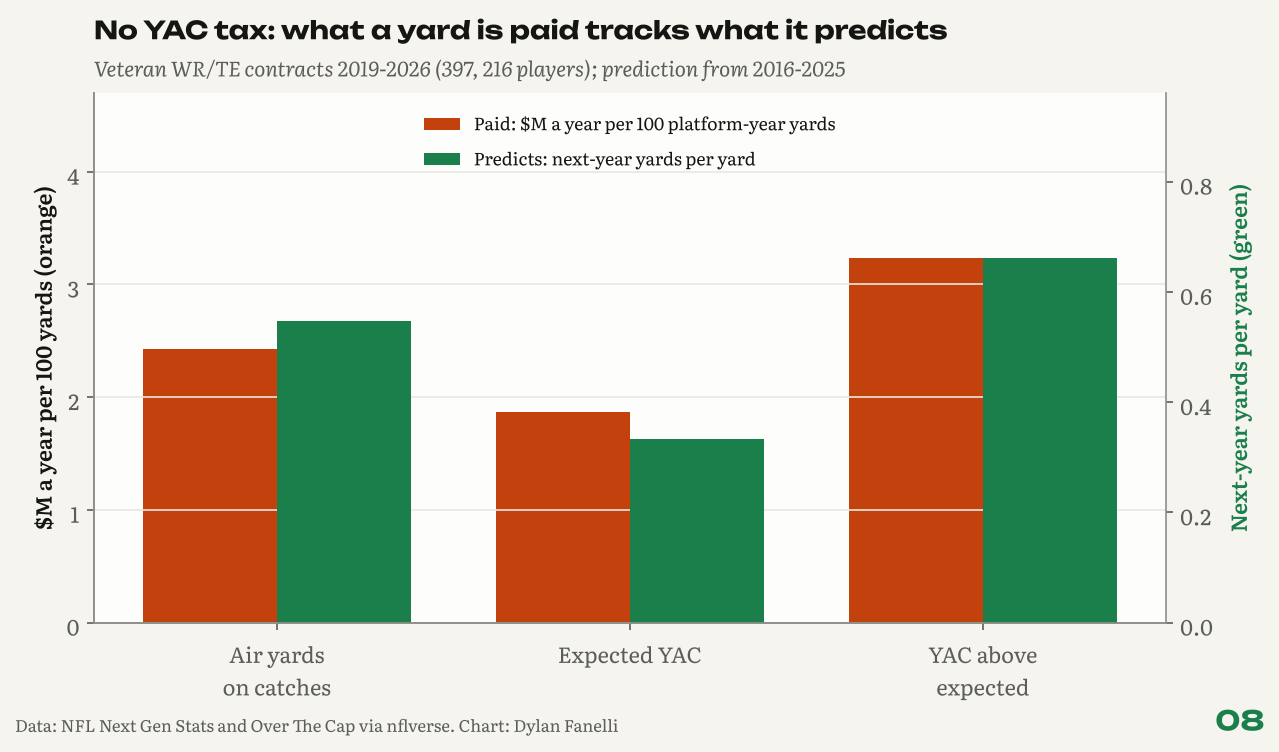
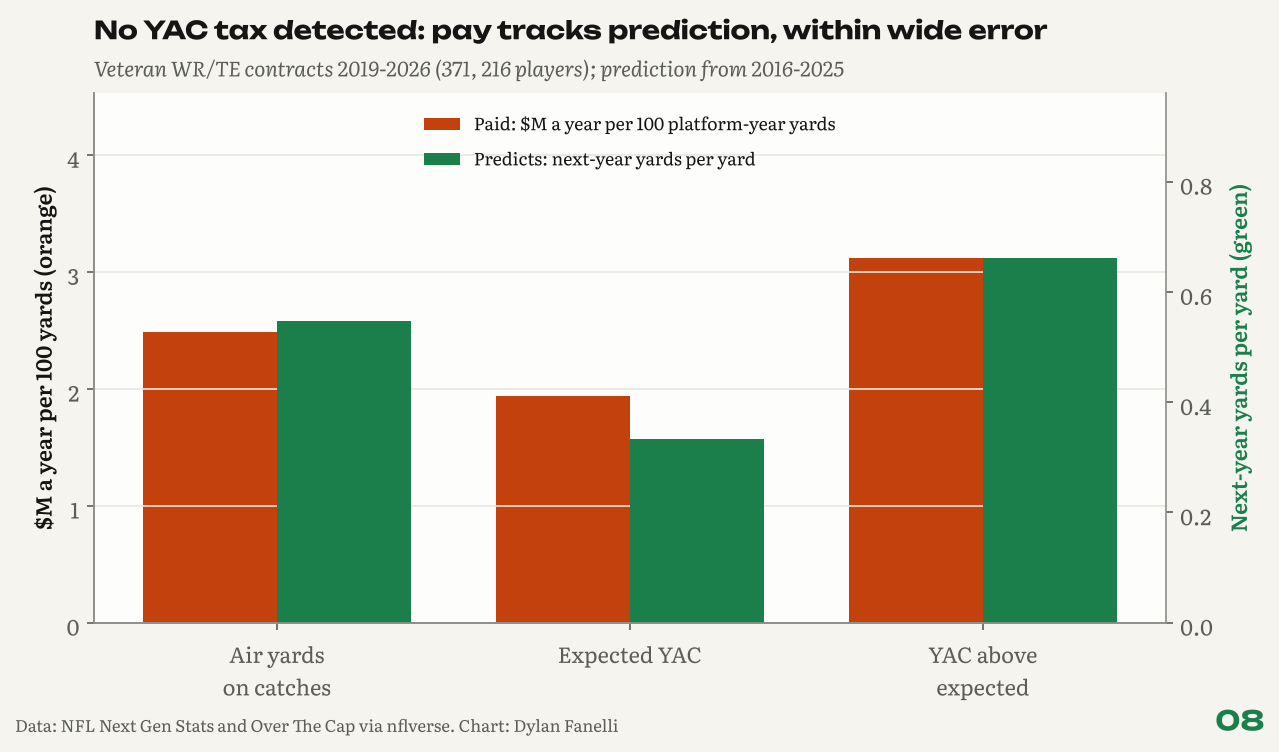
Study 08: deduped contracts, ratio test; stated as an underpowered null

diff --git a/reports/08-yac-tax/README.md b/reports/08-yac-tax/README.md
@@ -3,13 +3,13 @@
 # 08 The YAC Tax
 ### Do teams pay receivers for yards after the catch that won't come back?
 
-![status: published](https://img.shields.io/badge/status-published-0b6e4f) ![seasons: 2016-2025](https://img.shields.io/badge/seasons-2016--2025-1d2433) ![method: Next Gen Stats](https://img.shields.io/badge/method-Next%20Gen%20Stats-c2410c) ![method: clustered OLS](https://img.shields.io/badge/method-clustered%20OLS-c2410c) ![method: contract valuation](https://img.shields.io/badge/method-contract%20valuation-c2410c) ![method: null result](https://img.shields.io/badge/method-null%20result-c2410c)
+![status: published](https://img.shields.io/badge/status-published-0b6e4f) ![seasons: 2016-2025](https://img.shields.io/badge/seasons-2016--2025-1d2433) ![method: Next Gen Stats](https://img.shields.io/badge/method-Next%20Gen%20Stats-c2410c) ![method: clustered OLS](https://img.shields.io/badge/method-clustered%20OLS-c2410c) ![method: player bootstrap](https://img.shields.io/badge/method-player%20bootstrap-c2410c) ![method: null result](https://img.shields.io/badge/method-null%20result-c2410c)
 
 **TL;DR**
 
 - YAC over expected is noisy per catch (r = 0.36), but a season of it predicts next year like air yards (0.66 vs 0.55 yards per yard).
-- Contracts price each part of receiving production about the same per future yard (\$4.89M per 100 YAC-over-expected yards vs \$4.44M per 100 air yards): no YAC tax.
-- The receiver market looks efficient where the pass-rush market (study 07) does not; 397 veteran WR/TE contracts.
+- No YAC tax detected: \$4.71M per 100 future yards bought through YAC over expected vs \$4.55M through air yards (371 veteran WR/TE contracts).
+- The test has low power: the price-to-prediction ratio is 1.04 with a 90% interval of 0.54 to 2.06, so it cannot rule out a tax or a discount of about 2x.
 
 <p align="center"><img src="yac_tax.png" width="720" alt="Price per 100 future yards for each part of a receiver's production."></p>
 <p align="center"><sub>Price per 100 future yards for each part of a receiver's production.</sub></p>
@@ -21,25 +21,26 @@
 | YAC over expected per catch, year-to-year r | **0.36** |
 | Next-year yards per yard: YAC over expected | **0.66** |
 | Next-year yards per yard: air yards | **0.55** |
-| Price per 100 future yards: YACOE / air / expected YAC | **\$4.89M / \$4.44M / \$5.62M** |
-| Contracts / players | **397 / 216** |
+| Price per 100 future yards: YACOE / air / expected YAC | **\$4.71M / \$4.55M / \$5.82M** |
+| Test ratio: relative price / relative prediction (1 = fair) | **1.04 (90% 0.54-2.06)** |
+| Contracts / players | **371 / 216** |
 
 ## Why it matters for a club
 
 - **Receiver evaluation:** don't discount a receiver's YAC as luck by default; a season of it predicts next year like air yards do.
-- **Where to look for edges:** the receiver market prices production about right, unlike the pass-rush market in study 07.
+- **Where to look for edges:** no mispricing shows up here, but the sample is too small to call the receiver market efficient.
 - **Free agency:** the free-agent receiver list shows who leaned on YAC, as a reason to check the film, not to pass.
 
 ## The question
 
 **Do teams pay receivers for yards after the catch that won't come back?**
 
-Study 07 found teams pay for sacks beyond what pressures predict. Receivers have the same shape of problem. A receiver's yards split three ways, using NFL Next Gen Stats tracking: air yards on his catches, the yards after the catch a typical receiver would get on those same catches (expected YAC), and **YAC above expected**, where broken tackles, missed angles and luck live. If YAC above expected repeats less than the rest but is paid like the rest, it is a tax.
+Study 07 tested whether teams pay for sacks beyond what pressures predict. Receivers have the same shape of problem. A receiver's yards split three ways, using NFL Next Gen Stats tracking: air yards on his catches, the yards after the catch a typical receiver would get on those same catches (expected YAC), and **YAC above expected**, where broken tackles, missed angles and luck live. If YAC above expected repeats less than the rest but is paid like the rest, it is a tax.
 
 
 ## Data
 
-NFL Next Gen Stats receiving (2016-2025, qualified receivers, 1,251 player-seasons) and 397 veteran WR/TE contracts from Over The Cap (216 players, signed 2019-2026), via [nflverse](https://github.com/nflverse/nflverse-data). Dollars in 2026 cap terms (\$301.2M).
+NFL Next Gen Stats receiving (2016-2025, qualified receivers, 1,251 player-seasons) and 371 veteran WR/TE contracts from Over The Cap (216 players, signed 2019-2026), via [nflverse](https://github.com/nflverse/nflverse-data). Dollars in 2026 cap terms (\$301.2M).
 
 ## Results
 
@@ -50,17 +51,17 @@ Year to year: depth of target r = 0.77, separation r = 0.59, catch rate r = 0.48
 <p align="center"><img src="receiver_stability.png" width="720" alt="Year-to-year stability of receiving traits."></p>
 <p align="center"><sub>Year-to-year stability of receiving traits.</sub></p>
 
-### 2. But the YAC tax mostly isn't there.
+### 2. A season of YAC above expected is not just luck.
 
-Per catch, YAC above expected is noisy. Over a season of catches it adds up to something real: each yard of it predicts 0.66 yards the next season (95% interval 0.35-0.97), about the same as an air yard (0.55). Season-long YAC over expected carries over much more than the per-catch number suggests.
+Per catch it is noisy. Over a season each yard of it predicts 0.66 yards the next season (95% interval 0.35-0.97), about the same as an air yard (0.55).
 
-### 3. The market prices it about right.
+### 3. No YAC tax detected, and the test could not have seen a moderate one.
 
-Contracts pay \$3.24M a year per 100 yards of YAC above expected, \$2.43M per 100 air yards and \$1.87M per 100 expected-YAC yards. Per future yard, that works out to \$4.89M (YAC above expected), \$4.44M (air yards) and \$5.62M (expected YAC) per 100. Those are close, and the intervals overlap. Unlike sacks in study 07, I can't find a premium for the lucky part of receiving production. The robustness table (WR only, TE only, multi-year deals, deals over 1% of the cap, 2023-2026 deals) tells the same story.
+Contracts pay \$3.12M a year per 100 yards of YAC above expected, \$2.49M per 100 air yards and \$1.94M per 100 expected-YAC yards. Per future yard that is \$4.71M (YAC above expected, 90% interval \$2.79M to \$8.71M) against \$4.55M (air yards, \$3.29M to \$6.78M) per 100. The test ratio (relative price over relative prediction, 1.00 = fairly priced) is 1.04, with a 90% interval of 0.54 to 2.06 from 2,000 samples that resample players. That range runs from a discount of about half to a tax of about double, so this is a null result with low power, not proof the market is efficient.
 
 ### 4. What that means for a front office.
 
-The data says not to discount a receiver's YAC as luck by default. The most stable traits are target depth and separation, and the market already pays for production built on them. The receiver market looks efficient where the pass-rush market (study 07) does not.
+The data gives no reason to discount a receiver's YAC as luck by default. The most stable traits are target depth and separation.
 
 ### 5. The 2027 free-agent receivers.
 
@@ -70,7 +71,8 @@ Contracts ending after 2026 (Over The Cap, extensions counted), still active: mo
 
 - **Yards split:** air yards on catches = yards - catches x YAC per catch; expected YAC = catches x NGS expected YAC per catch; YAC above expected = catches x NGS YAC above expectation per catch. The three add up to total receiving yards.
 - **Prediction:** next season's yards on this season's three parts plus targets; **price:** APY as % of the cap on the platform season's three parts plus targets. Both cluster standard errors by player. Output in `models.txt`.
-- **Contracts:** veteran WR/TE deals (rookie deals and duplicates dropped), at least 0.4% of the cap, platform season = the season before signing.
+- **Contracts:** veteran WR/TE deals (rookie deals dropped; one deal per player-year, keeping the longer, then richer, deal when a tag and an extension share a year), at least 0.4% of the cap, platform season = the season before signing.
+- **Test:** the same statistic as study 07: (price per YAC-over-expected yard / price per air yard) divided by (next-year yards per YAC-over-expected yard / per air yard), players resampled in both samples.
 - **Free agents:** end year from each player's Over The Cap contract history, with extensions added after the deal they extend; first-round rookie deals (fifth-year option) left out; must have played offense this season.
 
 **In equations**
@@ -80,14 +82,15 @@ Contracts ending after 2026 (Over The Cap, extensions counted), still active: mo
 
 ## Validation
 
-- 5 robustness versions (WR only, TE only, multi-year deals, deals over 1% of the cap, 2023-2026 deals) recompute the price per 100 yards (not per future yard). YAC over expected is priced at or above air yards in 5 of them.
+- 5 robustness versions (WR only, TE only, multi-year deals, deals over 1% of the cap, 2023-2026 deals) recompute the price per 100 yards (not per future yard). YAC over expected is priced at or above air yards in 4 of them.
 - 95% interval for next-year yards per YACOE yard: 0.35-0.97, overlapping air yards.
-- A null result is reported as one: the hypothesis was a tax, and the data does not show it.
+- A null result is reported as one, with its power: the ratio is above 1 in 52% of 2,000 bootstrap samples.
 
 ## Limitations
 
 - NGS season tables only include qualified receivers, so part-time players and many tight ends are missing.
 - Expected YAC is the NFL's model; the split is only as good as it is.
+- The prediction sample needs a qualified season in back-to-back years (760 pairs from 1,251 qualified seasons), so receivers who were hurt or lost their role drop out.
 - Contract status can lag a new extension. Puka Nacua and George Pickens (franchise tag) were both in the final year of their deals as of this writing; check before acting.
 
 ## Next steps
